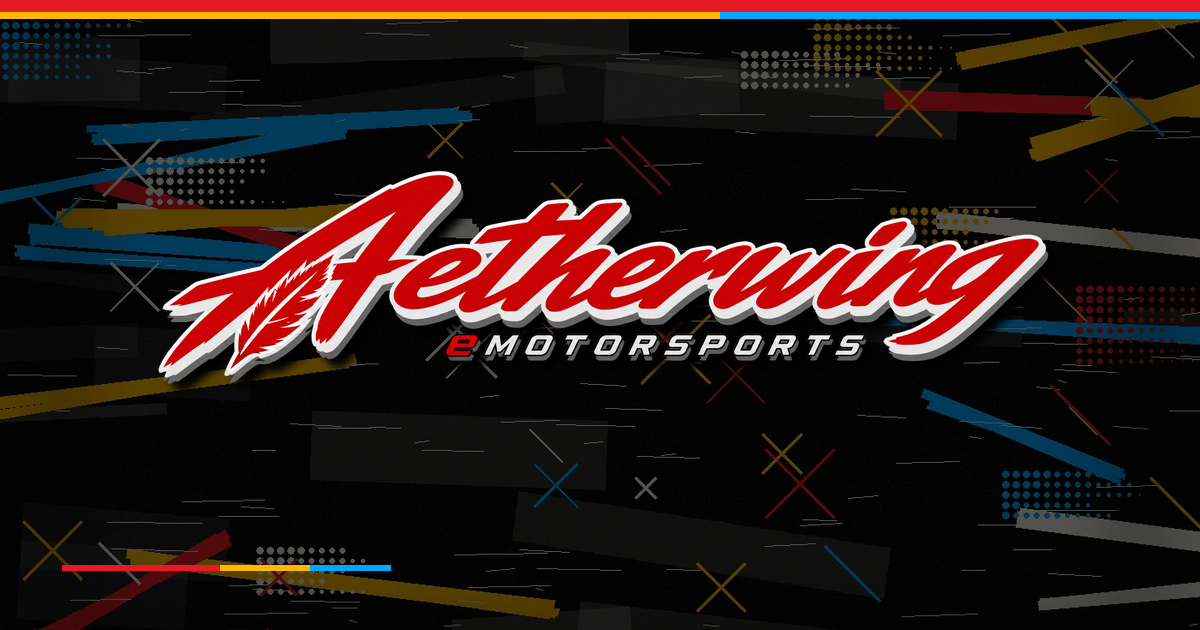
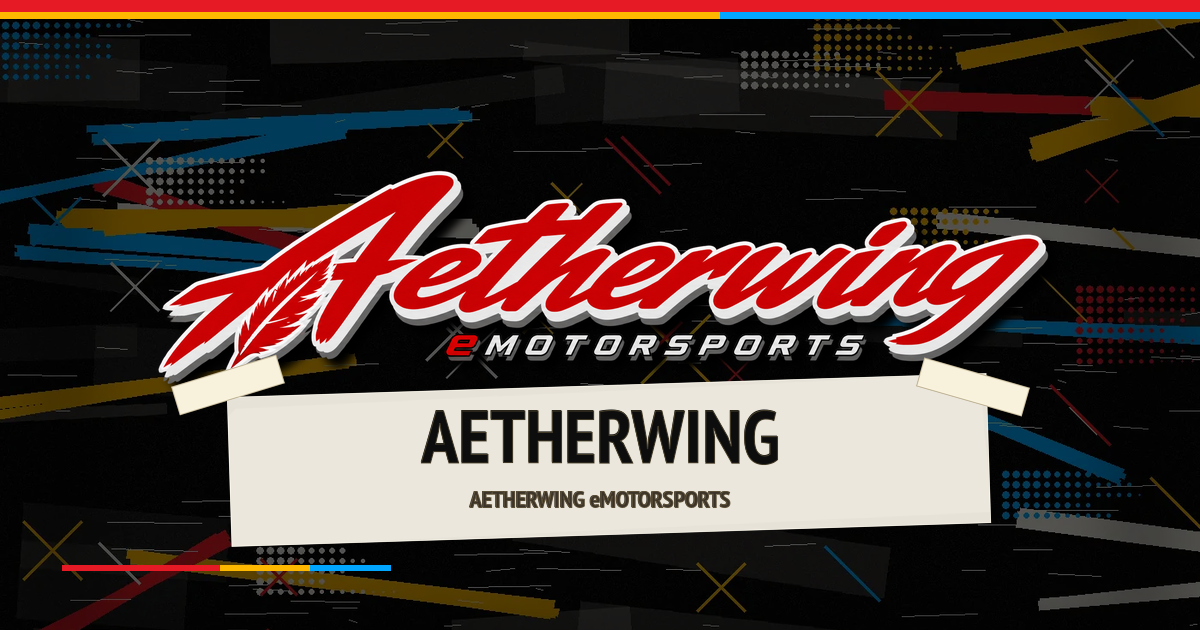
updated embeds

Changed region(s): [[0.1233, 0.5429, 0.8633, 0.8746]]

diff --git a/CHANGELOG.md b/CHANGELOG.md
@@ -132,3 +132,7 @@
 - Added initial interaction prototypes.
 - Added migration and final-domain-cutover checklists.
 - Kept `paint.aetherwing.net` completely outside this project.
+
+## v0.4.1
+- Added page-specific Open Graph / Discord social images for Home, Drivers, Schedule, Paint Booth, Partners, News, Wins & History, Mission & Values, Team Handbook, and Contact HQ.
+- Updated paint.aetherwing.net root embed image to use a dedicated Paint Booth social graphic.

diff --git a/README.md b/README.md
@@ -127,3 +127,6 @@ Paint Booth v0.3.9 server-renders the complete **35-paint collection** into the 
 - Scheme ID: `132350921119875`
 - Paint Booth deep link: `/paint-booth#paint-kmart-clutch-sinder`
 - Paint Share route: `https://paint.aetherwing.net/kmart-clutch-sinder/`
+
+
+Latest patch: v0.4.1 adds page-specific metadata images so major site links no longer all share the same default embed art.
